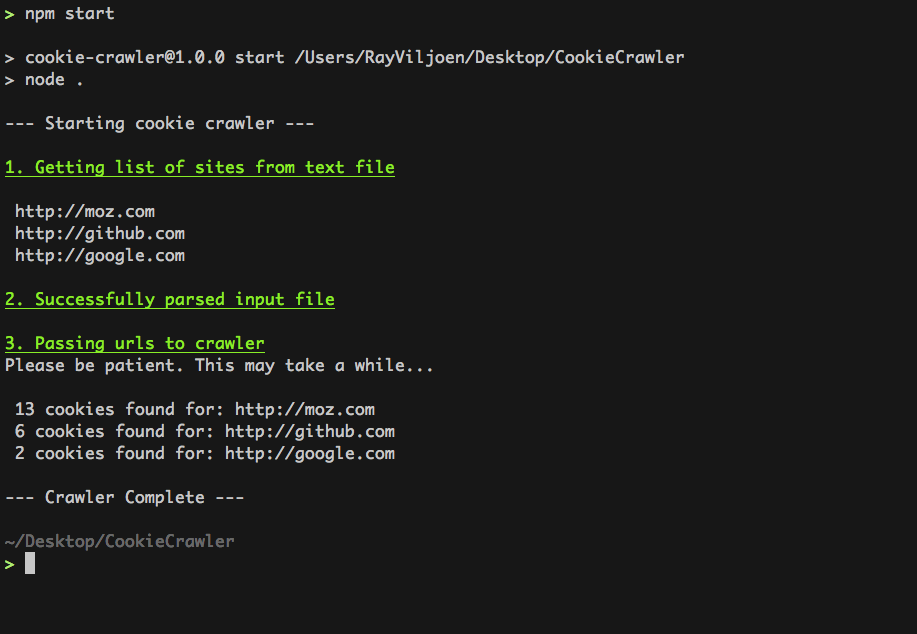
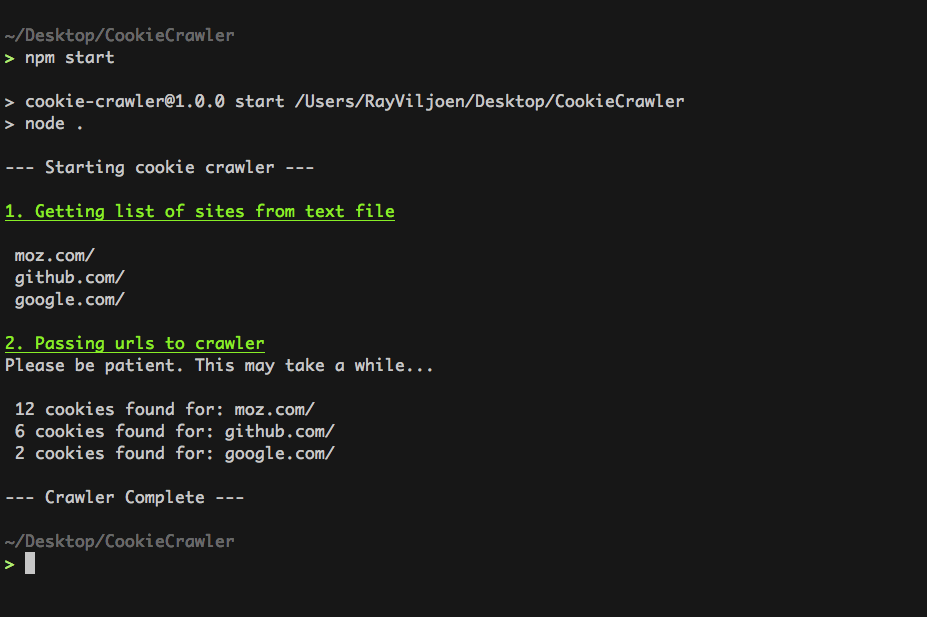
Adds path to report

Changed region(s): [[0.0, 0.2464, 0.458, 0.9238], [0.0, 0.0, 0.7328, 0.2156]]

diff --git a/app/index.js b/app/index.js
@@ -4,6 +4,7 @@ const moment = require('moment');
 const {steplog} = require('./lib/util');
 const crawler = require('./lib/crawler');
 const output = require('./lib/output');
+const urlParse = require('url').parse;
 
 // Get required config vars
 const {input_file, output_file} = require('../config.json');
@@ -38,8 +39,6 @@ input_parser(input_file.name)
     const csv = output.create(output_file);
 
     // Steps
-    steplog('Successfully parsed input file');
-
     steplog('Passing urls to crawler');
     console.log('Please be patient. This may take a while...\n');
 
@@ -49,8 +48,11 @@ input_parser(input_file.name)
     // Cookies sent
     .on('cookies', function(url, cookies){
 
+      let hostname = urlParse(url).hostname;
+      let path = urlParse(url).path;
+
       // Log number of cookies found
-      console.log(` ${cookies.length} cookies found for: ${url}`);
+      console.log(` ${cookies.length} cookies found for: ${hostname+path}`);
 
       // Write cookies to file
       if (cookies.length) {
@@ -60,7 +62,8 @@ input_parser(input_file.name)
           let expiry = cookie.expiry ? moment.unix(cookie.expiry).fromNow(true) : '';
 
           csv.write({
-            'Site': url,
+            'Site': hostname,
+            'Path': cookie.path,
             'Name': cookie.name,
             'Value': cookie.value,
             'Expires': expiry

diff --git a/app/lib/input/txt.js b/app/lib/input/txt.js
@@ -3,7 +3,7 @@
 const fs = require('fs');
 const readline = require('readline');
 const {mUrl} = require('../util');
-
+const urlParse = require('url').parse;
 
 /**
  * Handles a plain text input file of urls
@@ -28,7 +28,10 @@ module.exports = function(file) {
       // Push each line (site url) to url_list
       .on('line', function(line) {
         let url = mUrl(line);
-        console.log(` ${url}`);
+        let hostname = urlParse(url).hostname;
+        let path = urlParse(url).path;
+
+        console.log(` ${hostname+path}`);
         url_list.push(url);
       })
 

diff --git a/app/lib/crawler.js b/app/lib/crawler.js
@@ -52,7 +52,7 @@ const _fetchCookiesDevCache = function(url, callback) {
           callback(cookies);
         });
       }
-    }, 4000);
+    }, 1000);
   });
 }
 
